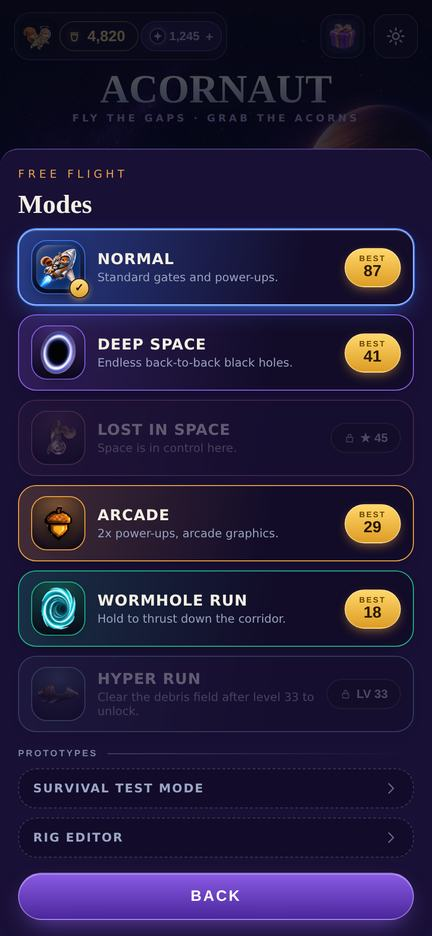
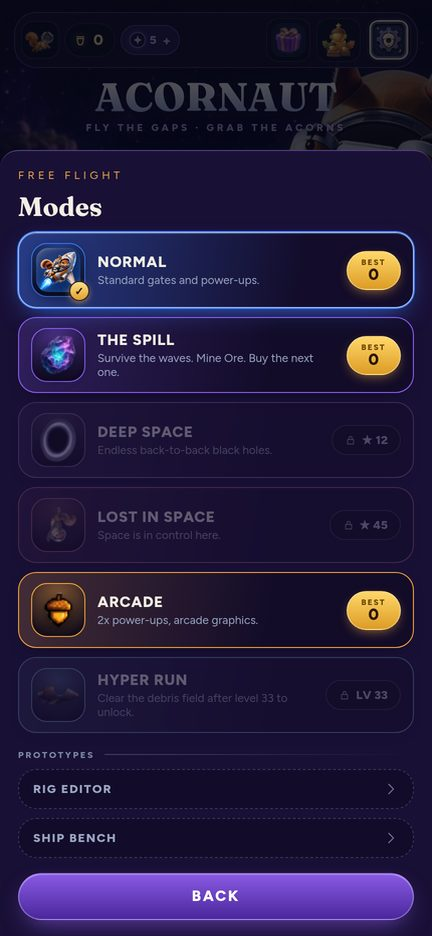
Deploy acornaut.io from AcornautSandbox@477f117
Built by .github/workflows/deploy-site.yml from site-src/. Do not hand-edit the landing page here - edit site-src/ and push.

diff --git a/index.html b/index.html
@@ -318,6 +318,13 @@ h1 em{font-style:normal; color:var(--violet-lite)}
 .sw img{width:100%; height:100%; object-fit:contain}
 .sw:hover{transform:translateY(-3px)}
 .sw[aria-pressed="true"]{border-color:var(--accent); background:radial-gradient(circle at 50% 30%,color-mix(in srgb,var(--accent) 22%,transparent),rgba(8,6,18,.9))}
+.sw.upcoming{border-style:dashed; border-color:color-mix(in srgb,var(--violet) 55%,var(--line-soft))}
+.sw-tag{position:absolute; left:6px; right:6px; bottom:5px; text-align:center;
+  font-family:Figtree,sans-serif; font-style:normal; font-weight:800; font-size:.58rem;
+  letter-spacing:.14em; text-transform:uppercase; color:var(--violet-lite);
+  background:rgba(8,6,18,.82); border:1px solid color-mix(in srgb,var(--violet) 45%,transparent);
+  border-radius:999px; padding:2px 0; pointer-events:none}
+.sw.upcoming img{opacity:.92}
 @media (prefers-reduced-motion:reduce){
   .rail{-webkit-mask-image:none; mask-image:none; overflow-x:auto; flex-wrap:wrap}
   .rail-in{flex-wrap:wrap; animation:none}
@@ -397,12 +404,11 @@ footer{background:var(--void); border-top:1px solid var(--line-soft);
     <div class="hero-copy">
       <p class="eyebrow">Free in your browser <s></s> No install <s></s> No account</p>
       <h1>One tap.<br>Thirty suits.<br><em>A hundred missions.</em></h1>
-      <p class="lede hero-sub">You&rsquo;re a squirrel in a spacesuit, threading the gaps between hand-painted planets. Tap and he rises. Stop and gravity takes him back. That is the entire control scheme.</p>
+      <p class="lede hero-sub">You&rsquo;re a squirrel in a spacesuit, threading the gaps between hand-painted planets. Tap and he rises. Stop and gravity takes him back.</p>
       <div class="hero-cta">
         <a class="btn" href="https://acornaut.app" target="_blank" rel="noopener">Play Acornaut</a>
-        <a class="arrow" href="#s-rule">Try the controls here <span>&#8594;</span></a>
+        <a class="arrow" href="#s-rule">Try it here <span>&#8594;</span></a>
       </div>
-      <p class="note hero-micro">Runs in any phone browser. Add it to your home screen and it opens like any other game on the phone.</p>
     </div>
     <figure class="shot hero-film">
       <div class="phone"><video width="400" height="712" data-src="hero.mp4" poster="assets/hero-poster.jpg" muted loop playsinline preload="none" aria-label="Acornaut title film"></video></div>
@@ -424,9 +430,9 @@ footer{background:var(--void); border-top:1px solid var(--line-soft);
 <section class="toy-band" id="s-rule" data-node>
   <div class="wrap">
     <div class="hd rise">
-      <p class="kicker">The whole control scheme</p>
-      <h2>Tap. That is the entire input.</h2>
-      <p class="lede">No buttons to learn and no tutorial to sit through. Planets don&rsquo;t kill you &mdash; you bounce off them, and the run keeps count. Only the floor is fatal. Thirty suits, a hundred missions and six rule-sets all hang off that one motion, and the strip below runs the game&rsquo;s own gravity, its own bounce, and Eclipse&rsquo;s own flight frames.</p>
+      <p class="kicker">Try it here</p>
+      <h2>Same gravity. Same bounce.</h2>
+      <p class="lede">Planets don&rsquo;t kill you &mdash; you bounce off them, and the run keeps count. Only the floor is fatal.</p>
     </div>
 
     <div class="toy rise" id="toy" role="button" tabindex="0" aria-label="Playable demo: tap or press space to flap">
@@ -445,8 +451,7 @@ footer{background:var(--void); border-top:1px solid var(--line-soft);
     </div>
 
     <div class="toy-foot">
-      <p class="reveal" id="craft">Sixteen painted attitudes &mdash; eight climbing, eight diving. The pose is the pitch, not a tilted sprite.</p>
-      <p class="tiny">Same gravity, same flap, same bounce, same frames &mdash; but this one is only a toy.</p>
+      <p class="tiny">This one is only a toy. The real game is at acornaut.app.</p>
     </div>
   </div>
 </section>
@@ -456,8 +461,8 @@ footer{background:var(--void); border-top:1px solid var(--line-soft);
   <div class="wrap">
     <div class="hd rise">
       <p class="kicker">Free Flight</p>
-      <h2>Six ways to fly. The same one control.</h2>
-      <p class="lede">Three of them are below, running. No trailer cuts and no mock-ups &mdash; these are captures of the game being played, at the speed it is played.</p>
+      <h2>Six ways to fly.</h2>
+      <p class="lede">Three of them are below, running.</p>
     </div>
 
     <div class="reel">
@@ -471,16 +476,15 @@ footer{background:var(--void); border-top:1px solid var(--line-soft);
       </figure>
       <figure class="clip rise">
         <div class="phone"><video width="400" height="868" data-src="mode-race.mp4" poster="assets/poster-race.jpg" muted loop playsinline preload="none" aria-label="Hyper Run gameplay"></video></div>
-        <figcaption><b>Hyper Run</b><span>A different machine entirely: hold to thrust, thread the rings, beat the clock. <i>Earned at level 33.</i></span></figcaption>
+        <figcaption><b>Hyper Run</b><span>Thread the rings. Beat the clock. Clear the debris field after level 33 to earn it.</span></figcaption>
       </figure>
     </div>
 
     <div class="modes-grid">
       <div class="mlist">
-        <p class="kicker" style="margin-bottom:4px">And three more</p>
-        <div class="mode rise hole" style="--accent:#b45cff"><span class="dot"></span><div><h3>Deep Space</h3><p>Endless back-to-back black holes. No gates, no scenery, just the next mouth.</p></div></div>
+        <div class="mode rise" style="--accent:#a276ff"><span class="dot"></span><div><h3>The Spill</h3><p>Waves of rock and scrap keep coming. Survive them, mine the ore, buy the next upgrade.</p></div></div>
+        <div class="mode rise hole locked" style="--accent:#b45cff"><span class="dot"></span><div><h3>Deep Space</h3><p>Endless back-to-back black holes. No gates, no scenery, just the next mouth.</p></div><span class="tag">&#9733; 12 to unlock</span></div>
         <div class="mode rise locked" style="--accent:#8fb8ff"><span class="dot"></span><div><h3>Lost in Space</h3><p>Space is in control here &mdash; the world tilts and mirrors while you fly.</p></div><span class="tag">&#9733; 45 to unlock</span></div>
-        <div class="mode rise" style="--accent:#4fe8dd"><span class="dot"></span><div><h3>Wormhole Run</h3><p>Hold to thrust down the corridor. One finger, no gaps, no mercy.</p></div></div>
       </div>
       <figure class="shot rise" style="margin:0">
         <div class="phone"><img src="assets/mk-modes.jpg" alt="The Acornaut mode picker, showing six flight modes with personal bests" loading="lazy"></div>
@@ -505,8 +509,7 @@ footer{background:var(--void); border-top:1px solid var(--line-soft);
       <div class="rise">
         <p class="kicker">The Star Chart</p>
         <h2>A hundred missions on one climbing road.</h2>
-        <p class="lede" style="margin-top:20px">Numbered 1 to 100, three stars each. The rewards hang on a rail beside the road, so before you go for a star you already know exactly what it buys. Nothing on this chart sits behind a question mark.</p>
-        <p class="goldline"><span class="num">100 missions</span> <s>&middot;</s> <span class="num">300 stars</span></p>
+        <p class="lede" style="margin-top:20px">Numbered 1 to 100, three stars each. The rewards hang on a rail beside the road, so before you go for a star you already know exactly what it buys.</p>
       </div>
     </div>
   </div>
@@ -518,7 +521,7 @@ footer{background:var(--void); border-top:1px solid var(--line-soft);
     <div class="hd rise">
       <p class="kicker">The Fitting Room</p>
       <h2>Thirty suits. Not one of them is a recolour.</h2>
-      <p class="lede">Every suit is its own painting, with a helmet built to match, a trail that burns in its own colour, and pals that fly alongside you. In the game you build the look in a lit display case and the squirrel wears your picks live while you decide. Pick one below &mdash; the case is the same one.</p>
+      <p class="lede">Twenty ship in the live game today; the ones marked <b>Soon</b> are upcoming on the beta shelf. Pick one below &mdash; helmet, trail, and pal are built to match.</p>
     </div>
 
     <div class="case-grid">
@@ -543,7 +546,7 @@ footer{background:var(--void); border-top:1px solid var(--line-soft);
     <div class="wall rise">
       <div class="rail" id="railA"><div class="rail-in" id="railAin"></div></div>
       <div class="rail rev" id="railB"><div class="rail-in" id="railBin"></div></div>
-      <p class="tiny" style="margin-top:16px;text-align:center">30 suits &middot; 31 helmets &middot; 18 trails &middot; 15 pals &mdash; every one of them painted, not tinted.</p>
+      <p class="tiny" style="margin-top:16px;text-align:center">30 on the wall &middot; 20 live &middot; 10 upcoming</p>
     </div>
   </div>
 </section>
@@ -565,10 +568,6 @@ footer{background:var(--void); border-top:1px solid var(--line-soft);
         <p>No. No sign-in, no email, no download. Your progress lives in the browser you play it in.</p>
       </div>
       <div>
-        <h3>Is it a real app?</h3>
-        <p>It runs in the browser today, and it installs to a phone home screen if you want it there. There is no App Store listing yet &mdash; an iOS release is where this is heading.</p>
-      </div>
-      <div>
         <h3>Who made it?</h3>
         <p>One person. Every suit, planet and animation frame in it was painted for this game and nothing else.</p>
       </div>
@@ -583,7 +582,7 @@ footer{background:var(--void); border-top:1px solid var(--line-soft);
     <p class="kicker" style="justify-content:center">One more thing</p>
     <h2>You have now read more about this game than it takes to play it.</h2>
     <a class="btn" href="https://acornaut.app" target="_blank" rel="noopener" style="margin-top:14px">Play Acornaut</a>
-    <p class="note" style="text-align:center">Free. No account. Add it to your home screen and it runs like an app from there.</p>
+    <p class="note" style="text-align:center">Free. No account.</p>
   </div>
 </section>
 
@@ -608,7 +607,7 @@ footer{background:var(--void); border-top:1px solid var(--line-soft);
 
 <div class="dock" id="dock"><a class="btn" href="https://acornaut.app" target="_blank" rel="noopener">&#9654;&nbsp; Play free &mdash; no account</a></div>
 
-<script>window.__SUITS__=[{"id": "flight", "name": "Flight", "glow": "#c9b6ff", "src": "assets/s-flight.webp"}, {"id": "iontrim", "name": "Ion", "glow": "#4ad8ff", "src": "assets/s-iontrim.webp"}, {"id": "copper", "name": "Copper", "glow": "#ff8a2a", "src": "assets/s-copper.webp"}, {"id": "frost", "name": "Frost", "glow": "#9fe4ff", "src": "assets/s-frost.webp"}, {"id": "voidsuit", "name": "Void", "glow": "#b45cff", "src": "assets/s-voidsuit.webp"}, {"id": "aurorasuit", "name": "Aurora", "glow": "#5dffd0", "src": "assets/s-aurorasuit.webp"}, {"id": "ember", "name": "Ember", "glow": "#ff5a1e", "src": "assets/s-ember.webp"}, {"id": "stardust", "name": "Stardust", "glow": "#8fb8ff", "src": "assets/s-stardust.webp"}, {"id": "robo", "name": "Robo", "glow": "#35e0ff", "src": "assets/s-robo.webp"}, {"id": "alien", "name": "Alien", "glow": "#7dff4d", "src": "assets/s-alien.webp"}, {"id": "ghost", "name": "Ghost", "glow": "#9fd8ff", "src": "assets/s-ghost.webp"}, {"id": "bigbooty", "name": "Big Booty", "glow": "#ffb84d", "src": "assets/s-bigbooty.webp"}, {"id": "catsuit", "name": "Cat", "glow": "#c9b6ff", "src": "assets/s-catsuit.webp"}, {"id": "gemmie", "name": "Gemmie", "glow": "#ffb8f0", "src": "assets/s-gemmie.webp"}, {"id": "sammie", "name": "Sammie", "glow": "#c9b6ff", "src": "assets/s-sammie.webp"}, {"id": "seraph", "name": "Seraph", "glow": "#ffe9a8", "src": "assets/s-seraph.webp"}, {"id": "leviathan", "name": "Leviathan", "glow": "#4fe8dd", "src": "assets/s-leviathan.webp"}, {"id": "verdant", "name": "Verdant", "glow": "#38ff9a", "src": "assets/s-verdant.webp"}, {"id": "cryostar", "name": "Cryostar", "glow": "#54d8ff", "src": "assets/s-cryostar.webp"}, {"id": "eclipse", "name": "Eclipse", "glow": "#b552ff", "src": "assets/s-eclipse.webp"}, {"id": "volt", "name": "Volt", "glow": "#54ff2e", "src": "assets/s-volt.webp"}, {"id": "cinderforge", "name": "Cinderforge", "glow": "#ff3b22", "src": "assets/s-cinderforge.webp"}, {"id": "groveguard", "name": "Groveguard", "glow": "#65dca1", "src": "assets/s-groveguard.webp"}, {"id": "cosmic", "name": "Cosmic", "glow": "#d687ff", "src": "assets/s-cosmic.webp"}, {"id": "sunforged", "name": "Sunforged", "glow": "#ffad2b", "src": "assets/s-sunforged.webp"}, {"id": "abyssal", "name": "Abyssal", "glow": "#39dcff", "src": "assets/s-abyssal.webp"}, {"id": "amethyst", "name": "Amethyst", "glow": "#c86dff", "src": "assets/s-amethyst.webp"}, {"id": "ivoryguard", "name": "Ivoryguard", "glow": "#fff0b8", "src": "assets/s-ivoryguard.webp"}, {"id": "reactor", "name": "Reactor", "glow": "#65ff32", "src": "assets/s-reactor.webp"}, {"id": "cyber", "name": "Cyber", "glow": "#7030df", "src": "assets/s-cyber.webp"}];window.__ASC__=["assets/asc-1.webp", "assets/asc-2.webp", "assets/asc-3.webp", "assets/asc-4.webp", "assets/asc-5.webp", "assets/asc-6.webp", "assets/asc-7.webp", "assets/asc-8.webp"];window.__DESC__=["assets/desc-1.webp", "assets/desc-2.webp", "assets/desc-3.webp", "assets/desc-4.webp", "assets/desc-5.webp", "assets/desc-6.webp", "assets/desc-7.webp", "assets/desc-8.webp"];window.__PLANETS__=["assets/p-3.webp", "assets/p-7.webp", "assets/p-12.webp", "assets/p-18.webp", "assets/p-24.webp", "assets/p-29.webp"];window.__CLIPS__={"hero.mp4": "clips/hero.mp4", "worlds.mp4": "clips/worlds.mp4", "mode-fly.mp4": "clips/mode-fly.mp4", "mode-arcade.mp4": "clips/mode-arcade.mp4", "mode-race.mp4": "clips/mode-race.mp4", "squad.mp4": "clips/squad.mp4"};</script>
+<script>window.__SUITS__=[{"id": "flight", "name": "Flight", "glow": "#c9b6ff", "beta": false, "src": "assets/s-flight.webp"}, {"id": "iontrim", "name": "Ion", "glow": "#4ad8ff", "beta": false, "src": "assets/s-iontrim.webp"}, {"id": "copper", "name": "Copper", "glow": "#ff8a2a", "beta": false, "src": "assets/s-copper.webp"}, {"id": "frost", "name": "Frost", "glow": "#9fe4ff", "beta": false, "src": "assets/s-frost.webp"}, {"id": "voidsuit", "name": "Void", "glow": "#b45cff", "beta": false, "src": "assets/s-voidsuit.webp"}, {"id": "aurorasuit", "name": "Aurora", "glow": "#5dffd0", "beta": true, "src": "assets/s-aurorasuit.webp"}, {"id": "ember", "name": "Ember", "glow": "#ff5a1e", "beta": false, "src": "assets/s-ember.webp"}, {"id": "stardust", "name": "Stardust", "glow": "#8fb8ff", "beta": true, "src": "assets/s-stardust.webp"}, {"id": "robo", "name": "Robo", "glow": "#35e0ff", "beta": false, "src": "assets/s-robo.webp"}, {"id": "alien", "name": "Alien", "glow": "#7dff4d", "beta": false, "src": "assets/s-alien.webp"}, {"id": "ghost", "name": "Ghost", "glow": "#9fd8ff", "beta": false, "src": "assets/s-ghost.webp"}, {"id": "bigbooty", "name": "Big Booty", "glow": "#ffb84d", "beta": false, "src": "assets/s-bigbooty.webp"}, {"id": "catsuit", "name": "Cat", "glow": "#c9b6ff", "beta": false, "src": "assets/s-catsuit.webp"}, {"id": "gemmie", "name": "Gemmie", "glow": "#ffb8f0", "beta": false, "src": "assets/s-gemmie.webp"}, {"id": "sammie", "name": "Sammie", "glow": "#c9b6ff", "beta": false, "src": "assets/s-sammie.webp"}, {"id": "seraph", "name": "Seraph", "glow": "#ffe9a8", "beta": false, "src": "assets/s-seraph.webp"}, {"id": "leviathan", "name": "Leviathan", "glow": "#4fe8dd", "beta": false, "src": "assets/s-leviathan.webp"}, {"id": "verdant", "name": "Verdant", "glow": "#38ff9a", "beta": false, "src": "assets/s-verdant.webp"}, {"id": "cryostar", "name": "Cryostar", "glow": "#54d8ff", "beta": false, "src": "assets/s-cryostar.webp"}, {"id": "eclipse", "name": "Eclipse", "glow": "#b552ff", "beta": false, "src": "assets/s-eclipse.webp"}, {"id": "volt", "name": "Volt", "glow": "#54ff2e", "beta": false, "src": "assets/s-volt.webp"}, {"id": "cinderforge", "name": "Cinderforge", "glow": "#ff3b22", "beta": true, "src": "assets/s-cinderforge.webp"}, {"id": "groveguard", "name": "Groveguard", "glow": "#65dca1", "beta": true, "src": "assets/s-groveguard.webp"}, {"id": "cosmic", "name": "Cosmic", "glow": "#d687ff", "beta": true, "src": "assets/s-cosmic.webp"}, {"id": "sunforged", "name": "Sunforged", "glow": "#ffad2b", "beta": true, "src": "assets/s-sunforged.webp"}, {"id": "abyssal", "name": "Abyssal", "glow": "#39dcff", "beta": true, "src": "assets/s-abyssal.webp"}, {"id": "amethyst", "name": "Amethyst", "glow": "#c86dff", "beta": true, "src": "assets/s-amethyst.webp"}, {"id": "ivoryguard", "name": "Ivoryguard", "glow": "#fff0b8", "beta": true, "src": "assets/s-ivoryguard.webp"}, {"id": "reactor", "name": "Reactor", "glow": "#65ff32", "beta": true, "src": "assets/s-reactor.webp"}, {"id": "cyber", "name": "Cyber", "glow": "#7030df", "beta": false, "src": "assets/s-cyber.webp"}];window.__ASC__=["assets/asc-1.webp", "assets/asc-2.webp", "assets/asc-3.webp", "assets/asc-4.webp", "assets/asc-5.webp", "assets/asc-6.webp", "assets/asc-7.webp", "assets/asc-8.webp"];window.__DESC__=["assets/desc-1.webp", "assets/desc-2.webp", "assets/desc-3.webp", "assets/desc-4.webp", "assets/desc-5.webp", "assets/desc-6.webp", "assets/desc-7.webp", "assets/desc-8.webp"];window.__PLANETS__=["assets/p-3.webp", "assets/p-7.webp", "assets/p-12.webp", "assets/p-18.webp", "assets/p-24.webp", "assets/p-29.webp"];window.__CLIPS__={"hero.mp4": "clips/hero.mp4", "worlds.mp4": "clips/worlds.mp4", "mode-fly.mp4": "clips/mode-fly.mp4", "mode-arcade.mp4": "clips/mode-arcade.mp4", "mode-race.mp4": "clips/mode-race.mp4", "squad.mp4": "clips/squad.mp4"};</script>
 <script>
 (function(){
 "use strict";
@@ -695,14 +694,28 @@ function pick(s, btn){
   caseEl.style.setProperty("--accent", s.glow);
   caseImg.src = s.src; caseImg.alt = s.name + " suit";
   caseName.textContent = s.name;
+  var sub = caseName.nextElementSibling;
+  if(sub) sub.innerHTML = s.beta
+    ? "Upcoming &middot; on beta"
+    : "Suit &middot; matching helmet &middot; trail";
   [].forEach.call(document.querySelectorAll(".sw"), function(b){ b.setAttribute("aria-pressed", b === btn ? "true" : "false"); });
 }
 function swatch(s){
   var b = document.createElement("button");
-  b.className = "sw"; b.type = "button"; b.setAttribute("aria-pressed","false");
-  b.title = s.name; b.setAttribute("aria-label","Show the " + s.name + " suit in the case");
+  b.className = "sw" + (s.beta ? " upcoming" : ""); b.type = "button"; b.setAttribute("aria-pressed","false");
+  b.title = s.beta ? (s.name + " (upcoming)") : s.name;
+  b.setAttribute("aria-label", s.beta
+    ? ("Show the upcoming " + s.name + " suit in the case")
+    : ("Show the " + s.name + " suit in the case"));
+  if(s.beta) b.setAttribute("data-upcoming", "true");
   var i = document.createElement("img"); i.src = s.src; i.alt = ""; i.loading = "lazy";
   b.appendChild(i);
+  if(s.beta){
+    var tag = document.createElement("i");
+    tag.className = "sw-tag";
+    tag.textContent = "Soon";
+    b.appendChild(tag);
+  }
   b.addEventListener("click", function(){ pick(s, b); });
   return b;
 }
@@ -715,7 +728,11 @@ if(SUITS.length){
     B.forEach(function(s){ railB.appendChild(swatch(s)); });
   }
   var first = SUITS.filter(function(s){ return s.id === "seraph"; })[0] || SUITS[0];
-  pick(first, railA.querySelector('.sw[title="' + first.name + '"]'));
+  var firstBtn = null;
+  [].forEach.call(document.querySelectorAll(".sw"), function(b){
+    if(!firstBtn && b.title.indexOf(first.name) === 0) firstBtn = b;
+  });
+  pick(first, firstBtn);
   if(!RM){
     railA.style.animationDuration = (A.length*2.4)+"s";
     railB.style.animationDuration = (B.length*2.7)+"s";

diff --git a/sw.js b/sw.js
@@ -7,7 +7,7 @@
 // invisible forever. Deriving it from content means identical output keeps the
 // same name (no needless churn) and any change flushes the old generation in
 // the activate handler below.
-const CACHE = 'acornaut-db932e4a0db4';
+const CACHE = 'acornaut-b0a066fef187';
 
 // The installed app opens the ARCADE, so that is the shell worth precaching.
 // The landing page is a page you visit, not an app you launch: it is left to
